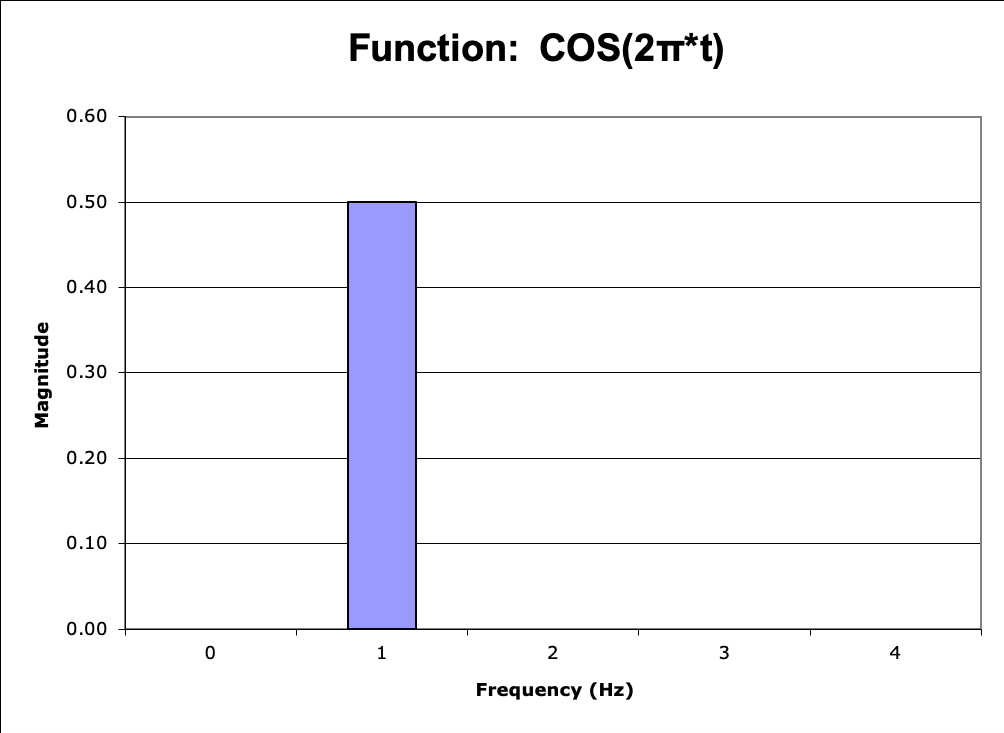
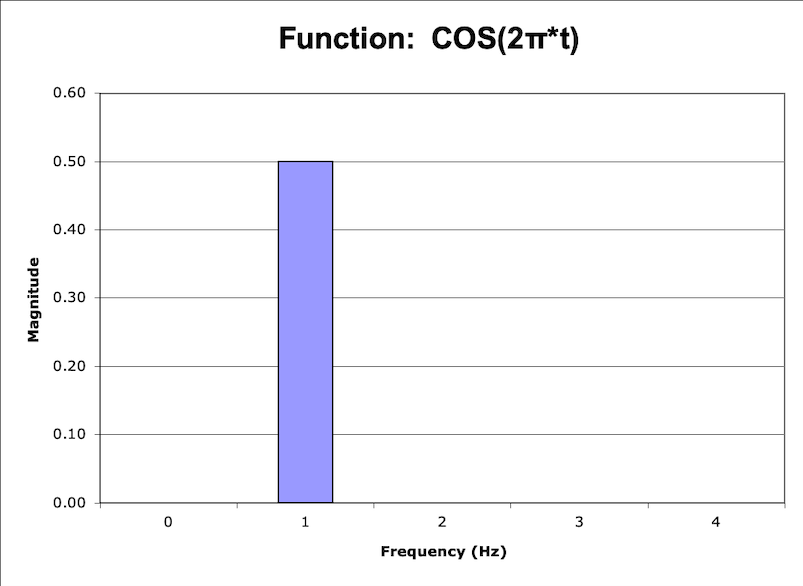
Adjusted the size of images directly rather than trying to handle scaling in markdown

diff --git a/README.md b/README.md
@@ -43,8 +43,8 @@ Magnitude = sqrt( real^2 + imag^2 )
 ### Result images
 Below are examples of images associated to unit test functions.
 
-![Step Function|400x300](./img/step.png)
+![Step Function](./img/step.png)
 
-![Cos(2 * PI * t)|80%](./img/cos2pi.png)
+![Cos(2 * PI * t)](./img/cos2pi.png)
 
-![Sin(4 * PI * t)|80%](./img/sin4pi.png)
+![Sin(4 * PI * t)](./img/sin4pi.png)
